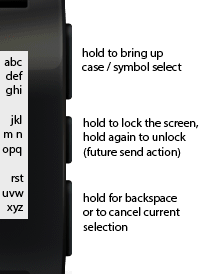
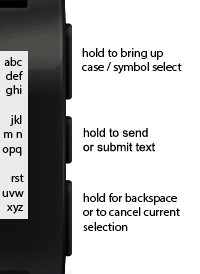
update documentation on API

Changed region(s): [[0.39, 0.438, 0.99, 0.5839]]

diff --git a/docs/index.html b/docs/index.html
@@ -34,13 +34,15 @@
         
         <br><a name="download"></a>
         <h3>Download</h3>
-        <p>The official .pbw of Tertiary Text is available for SDK 2.0 <a href="tertiary_text_v2-0-1.pbw">here</a>. The application is called Pebble Notepad, and will allow you to take notes using only your Pebble. Data is stored persistently, and can be cleared by holding the middle button. The source code for it is also included below, so you can see how to work with and use Tertiary Text. An <a href="tertiary_text_v1-x.pbw">older</a> .pbw for SDK 1.x is also available.</p>
+        <p>Tertiary Text is designed as an implementable API. If you want to see it used in one of your favorite apps, pester the developer! That being said, a sample implmentation of Tertiary Text (.pbw) is available <a href="tertiary_text_v2-0-1.pbw">here</a>. The application is called Pebble Notepad, and will allow you to take notes using only your Pebble. Data is stored persistently, and can be cleared by holding the middle button. The source code for it is also included below, so you can see how to work with and use Tertiary Text. An <a href="tertiary_text_v1-x.pbw">older</a> .pbw for SDK 1.x is also available.</p>
         
         
         <br><a name="examples"></a>
         <h3>Examples</h3>
         <p>Developers have started incorporating Teriary Text with awesome results!<br>
         <ul>
+            <li>
+                <a href="https://play.google.com/store/apps/details?id=com.matejdro.pebblenotificationcenter">Notification Center</a> by <b>Matej dro</b></li>
             <li>
 		<a
 href="http://pblweb.com/appstore/532000f7237858d2500001b1/">Pebble
@@ -58,8 +60,17 @@ Balestra</b></li>
         <br><a name="source"></a>
         <h3>Source</h3>
         <p>The source is available on <a href="https://github.com/vgmoose/tertiary_text">github</a> and is licensed under the <a href="http://www.gnu.org/licenses/gpl-2.0.html">GPLv2 license</a>. Feel free to contribute or adjust any small features / bugs as you feel fit! Together we can all bring the most useful, attractive, and effective text input solution to the Pebble! Perhaps with time we could even gain some official attention from the Pebble dev team. ;)</p>
-        <p>An official API may be on its way in the future, but as for now it isn't so hard to look at the code and incoorperate it.</p>
-        
+        <p><strike>An official API may be on its way in the future, but as for now it isn't so hard to look at the code and incoorperate it.</strike> <b>Thank you <a href="https://github.com/tocsick">tocsick</a>!</b></p>
+
+<br><a name="api"></a>
+        <h3>Official API</h3>
+        <p>Tertiary Text can be easily invoked as a pop up window in your application by simply adding <a href="https://github.com/vgmoose/tertiary_text/tree/master/src">two files</a> to your existing application, and calling the <b>tertiary_text_prompt</b> function. After the text has been sent, your application will receive the input string via a callback function. More details on this is available in the <a href="https://github.com/vgmoose/tertiary_text#api">readme file</a>.</p>
+<p>A simple example of an application that logs the typed text is available <a href="https://github.com/vgmoose/tertiary_text/blob/master/src/main.c">here</a>. It will output the typed input to the log. For more information about Pebble logging, see <a href="http://developer.getpebble.com/docs/c/group___logging.html">here</a>.</p>
+       
+<br>
+<h3>FAQ</h3>
+        <p><b>Q</b>: Are you able to type space?<br /><b>A</b>: Space (" ") is able to be typed by hitting the middle button 3 times (between M and N)</p>
+
         <br><a name="contact"></a>
         <h3>Contact</h3>
         <p>You can contact me best at vgmoose [at] gmail.com. Thank you for checking out this project– any and all support is welcome. If you have suggestions/criticisms you can shoot me an email as well.
